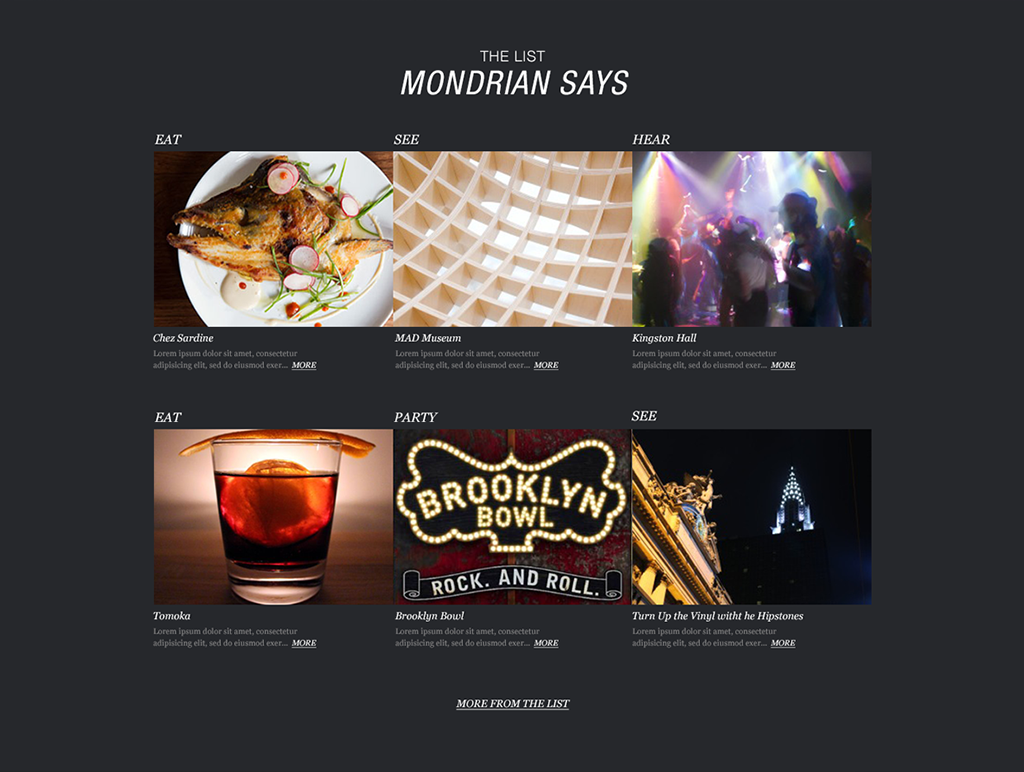
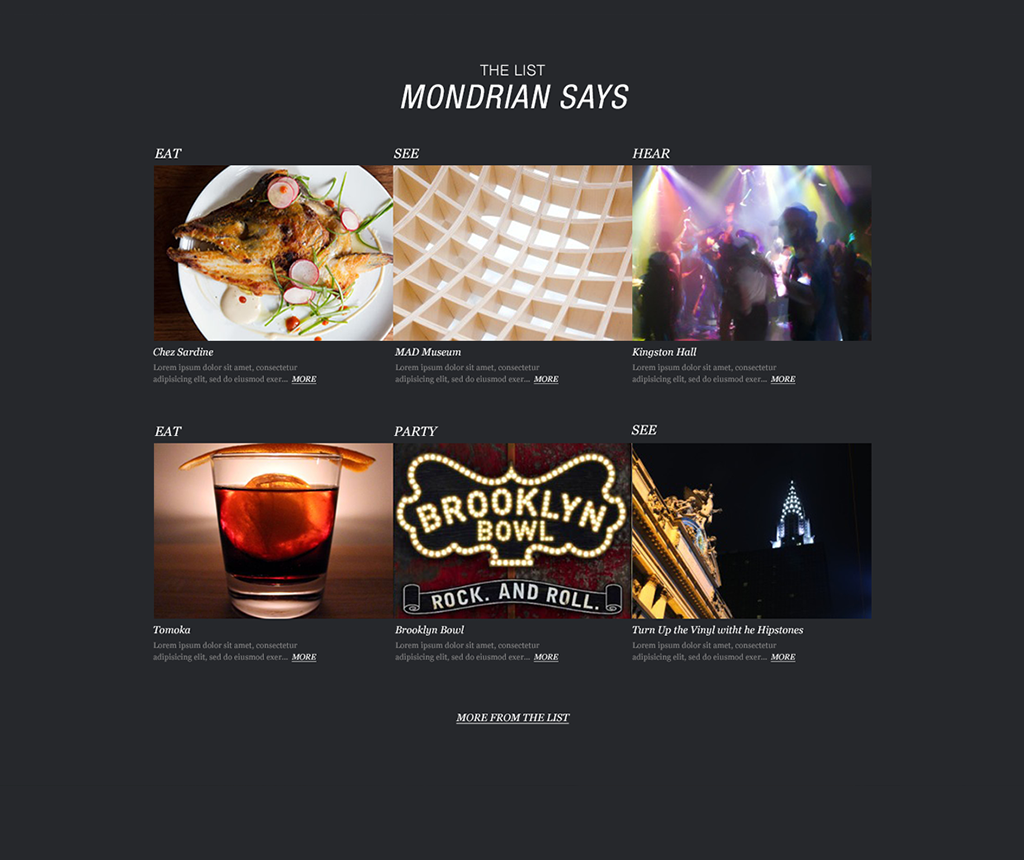
parallax browser working

Changed region(s): [[0.125, 0.1554, 0.875, 0.8394], [0.375, 0.0622, 0.625, 0.1244], [0.4375, 0.9016, 0.5625, 0.9326]]

diff --git a/web/views/index.html b/web/views/index.html
@@ -38,11 +38,17 @@
         <div id="body">
           <div class="inner">
             <section>
-              <div class="page" id="page01" data-slide="1" data-stellar-background-ratio="0.5">
-                <div class="page-bg-image" id="page-bg-01" data-stellar-ratio="0.8"></div>
+              <div class="page" id="page01" data-page="1" data-stellar-background-ratio="0.5">
               </div>
-              <div class="page" id="page02" data-slide="2" data-stellar-background-ratio="0.5">
-                <div class="page-bg-image" id="page-bg-02" data-stellar-ratio="0.8"></div>
+              <div class="page" id="page02" data-page="2" data-stellar-background-ratio="0.5">
+              </div>
+              <div class="page" id="page03" data-page="3" data-stellar-background-ratio="0.5">
+              </div>
+              <div class="page" id="page04" data-page="4" data-stellar-background-ratio="0.5">
+              </div>
+              <div class="page" id="page05" data-page="5" data-stellar-background-ratio="0.5">
+              </div>
+              <div class="page" id="page06" data-page="6" data-stellar-background-ratio="0.5">
               </div>
             </section>
           </div>
@@ -62,7 +68,7 @@
               </nav>
               <div class="social"></div>
             </div>
-            
+
             <div class="corporate">
               <div class="boilerplate">
                 <h2>Morgans Hotel Group</h2>

diff --git a/src/styles/home.less b/src/styles/home.less
@@ -2,16 +2,61 @@
   margin-top: 0px;
 }
 
-#body .inner 
-{
+.navbar {
   position: relative;
-  section {
+}
+
+#body
+{
+  padding: 0;
+  .inner 
+  {
     position: relative;
-    top: 0px;
     width: 100%;
-    height: 4000px;
+    padding: 0;
     margin: 0;
-  } 
+    section {
+      position: relative;
+      top: 0px;
+      width: 100%;
+      height: 3453px;
+      margin: 0;
+      // background: green;
+      .page {
+        width: 100%;
+        overflow: hidden;
+      }
+    } 
+  }
+}
+
+*{
+  -webkit-overflow-scrolling:touch;
+}
+
+#page01 {
+  background:url(../images/homepage01_bg.jpg) no-repeat;
+  height: 560px;
+}
+#page02 {
+  background:url(../images/homepage02_bg.jpg) no-repeat;
+  height: 780px;
+}
+#page03 {
+  background:url(../images/homepage03_bg.jpg) no-repeat;
+  height: 382px;
+}
+#page04 {
+  background:url(../images/homepage04_bg.jpg) no-repeat;
+  height: 382px;
+}
+#page05 {
+  background:url(../images/homepage05_bg.jpg) no-repeat;
+  height: 382px;
+}
+#page06 {
+  background:url(../images/homepage06_bg.jpg) no-repeat;
+  height: 968px;
 }
 
 .mobile body {
@@ -25,6 +70,6 @@
     width: 100%;
   }
   #scroller {
-    height: 6000px;
+    height: 4600px;
   }
 }

diff --git a/web/public/styles/home.css b/web/public/styles/home.css
@@ -1,12 +1,55 @@
 #footer {
   margin-top: 0px;
 }
+.navbar {
+  position: relative;
+}
+#body {
+  padding: 0;
+}
+#body .inner {
+  position: relative;
+  width: 100%;
+  padding: 0;
+  margin: 0;
+}
 #body .inner section {
   position: relative;
   top: 0px;
   width: 100%;
-  height: 4000px;
+  height: 3453px;
   margin: 0;
+}
+#body .inner section .page {
+  width: 100%;
+  overflow: hidden;
+}
+* {
+  -webkit-overflow-scrolling: touch;
+}
+#page01 {
+  background: url(../images/homepage01_bg.jpg) no-repeat;
+  height: 560px;
+}
+#page02 {
+  background: url(../images/homepage02_bg.jpg) no-repeat;
+  height: 780px;
+}
+#page03 {
+  background: url(../images/homepage03_bg.jpg) no-repeat;
+  height: 382px;
+}
+#page04 {
+  background: url(../images/homepage04_bg.jpg) no-repeat;
+  height: 382px;
+}
+#page05 {
+  background: url(../images/homepage05_bg.jpg) no-repeat;
+  height: 382px;
+}
+#page06 {
+  background: url(../images/homepage06_bg.jpg) no-repeat;
+  height: 968px;
 }
 .mobile body {
   overflow: hidden;
@@ -19,5 +62,5 @@
   width: 100%;
 }
 .mobile body #scroller {
-  height: 6000px;
+  height: 4600px;
 }
